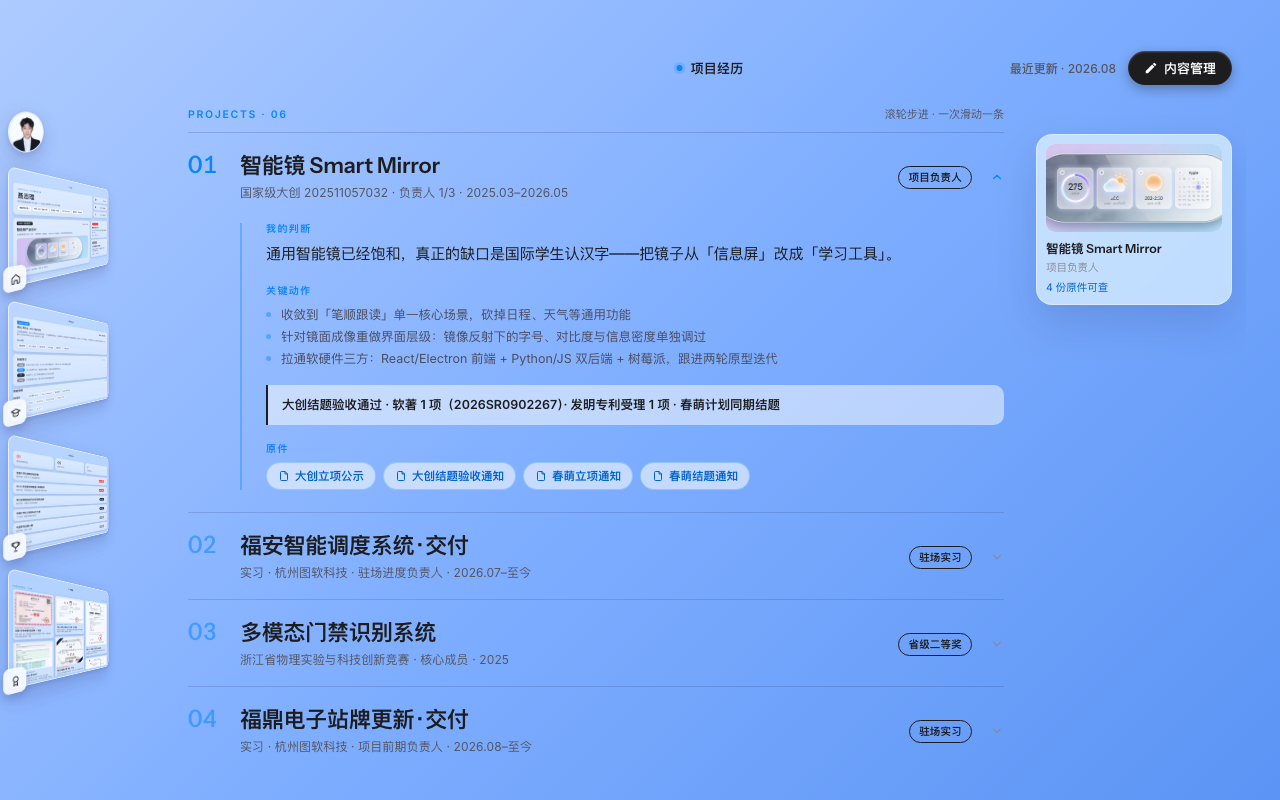
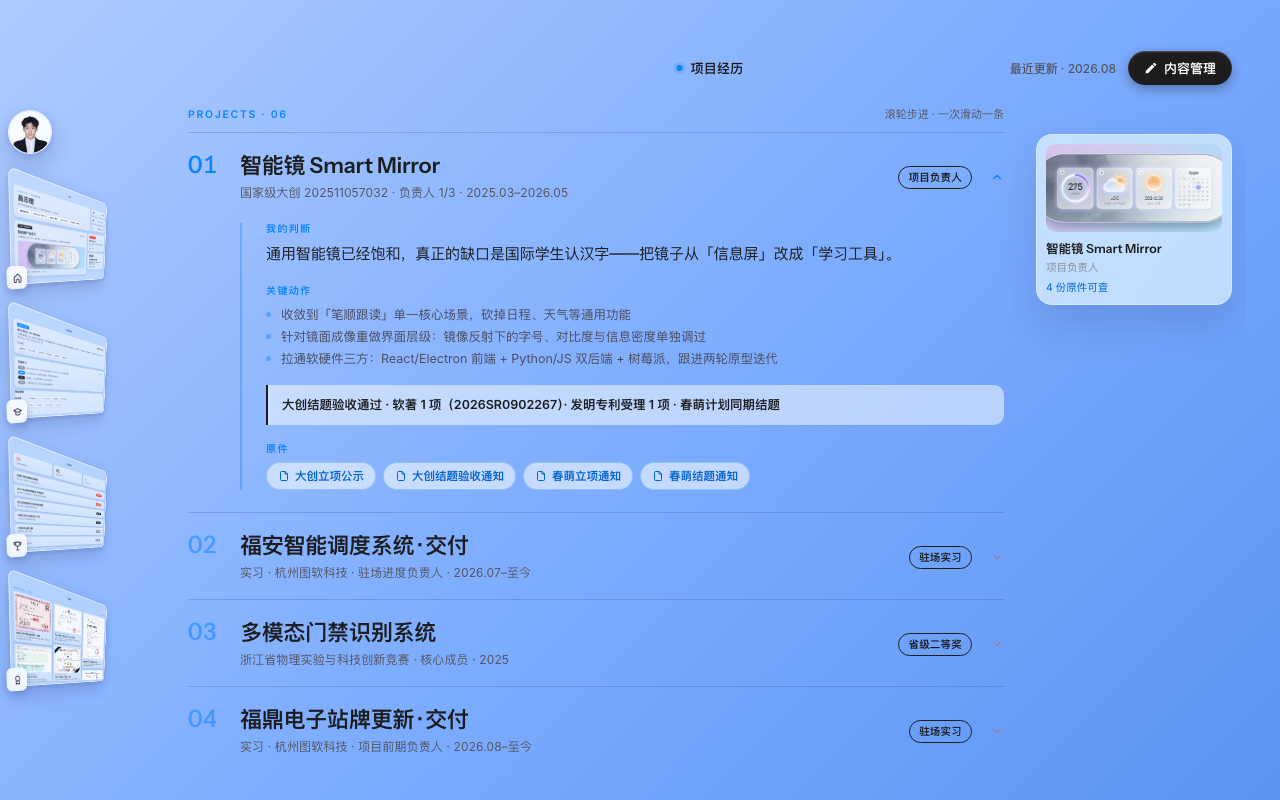
feat(strip): four-corner homography — the card is now an arbitrary quadrilateral
rotateY can only produce a symmetric trapezoid: the left and right edges stay
parallel and the top/bottom edges converge by the same amount. Stage Manager
shows the window at an angle, so the top edge drops far more than the bottom
edge lifts and the vertical edges are not parallel either — an irregular quad.

- quadMatrix(): solve the 4-point homography from the card rect to any quad and
  emit matrix3d; transform-origin is 0 0 so the four corners land exactly
- target corners (0,0) (99,38) (96,111) (3,119): top edge drops 38px, bottom
  edge lifts only 6px, both vertical edges lean 3px, right edge ~0.65 of left
- the reflow (slot) animation now repeats the matrix in its keyframes, else the
  cards get flattened into rectangles for the 260ms it runs
- measured after the change: tl(9,301) tr(107,339) br(104,412) bl(12,418)
- avatar card is not warped (stays a circle); FLIP still uses the real bbox

Changed region(s): [[0.0, 0.125, 0.0938, 0.875]]

diff --git a/src/components/StageStrip.vue b/src/components/StageStrip.vue
@@ -26,15 +26,65 @@ const emit = defineEmits(['pick'])
 const root = ref(null)
 
 // 主区实际尺寸（App.vue 里 .main-area：1280-160-16 × 800-16-16）。
-// 卡片 132×92 与它同比例（1.4348 vs 1.4375），单轴缩放不会把画面压变形。
 const STAGE_W = 1104
 const STAGE_H = 768
 const CARD_W = 175 // = --stage-card-w，改令牌时这里要同步
+const CARD_H = 122 // = --stage-card-h
 const frameStyle = {
   width: STAGE_W + 'px',
   height: STAGE_H + 'px',
   transform: `scale(${CARD_W / STAGE_W})`
 }
+
+// ---------- 不规则四边形 ----------
+// rotateY 只能做出「上下边对称收敛」的等腰梯形；真实台前调度的窗口是斜着看的，
+// 上边下压得多、下边收得少，四条边都不平行 —— 那是一个任意四边形。
+// 任意四边形用 4 点单应矩阵（matrix3d）表达：把卡片矩形映射到目标四点。
+const QUAD = {
+  w: 99,        // 视觉宽度
+  h: 119,       // 左缘高度（近边，最高）
+  topDrop: 38,  // 右上角相对左上角下压多少（上边的斜率，明显大于下边）
+  riseBtm: 6,   // 右下角相对左下角上收多少（下边的斜率，几乎持平）
+  skew: 3       // 左右两边的横向倾斜：让竖边也不平行
+}
+// 左上 / 右上 / 右下 / 左下
+const quadPoints = [
+  [0, 0],
+  [QUAD.w, QUAD.topDrop],
+  [QUAD.w - QUAD.skew, QUAD.topDrop + (QUAD.h - QUAD.topDrop - QUAD.riseBtm)],
+  [QUAD.skew, QUAD.h]
+]
+
+// 把 w×h 的矩形映射到任意四边形（四点单应），返回 matrix3d
+function quadMatrix(w, h, [p0, p1, p2, p3]) {
+  const [x0, y0] = p0, [x1, y1] = p1, [x2, y2] = p2, [x3, y3] = p3
+  const dx1 = x1 - x2, dx2 = x3 - x2, dx3 = x0 - x1 + x2 - x3
+  const dy1 = y1 - y2, dy2 = y3 - y2, dy3 = y0 - y1 + y2 - y3
+  let a, b, c, d, e, f, g, k
+  if (Math.abs(dx3) < 1e-9 && Math.abs(dy3) < 1e-9) {
+    // 仿射退化（四边形其实是平行四边形）
+    a = x1 - x0; b = x2 - x1; c = x0
+    d = y1 - y0; e = y2 - y1; f = y0
+    g = 0; k = 0
+  } else {
+    const det = dx1 * dy2 - dx2 * dy1
+    g = (dx3 * dy2 - dx2 * dy3) / det
+    k = (dx1 * dy3 - dx3 * dy1) / det
+    a = x1 - x0 + g * x1
+    b = x3 - x0 + k * x3
+    c = x0
+    d = y1 - y0 + g * y1
+    e = y3 - y0 + k * y3
+    f = y0
+  }
+  // 源坐标是 w×h，所以把单应里的小数系数按比例还原
+  const A = a / w, B = b / h, C = c
+  const D = d / w, E = e / h, F = f
+  const G = g / w, H = k / h
+  return `matrix3d(${A},${D},0,${G}, ${B},${E},0,${H}, 0,0,1,0, ${C},${F},0,1)`
+}
+
+const slotTransform = quadMatrix(CARD_W, CARD_H, quadPoints)
 
 // 缩略图里的页面只当画面，不挂键盘/滚轮监听
 provide(STAGE_PREVIEW, true)
@@ -77,8 +127,13 @@ onUpdated(() => {
     if (before == null) return
     const delta = (before - el.getBoundingClientRect().top) / k
     if (Math.abs(delta) < 1) return
+    // 关键帧必须带上卡片自己的四边形矩阵，否则补位动画期间卡片会被拍平
+    const base = el.dataset.key === 'avatar' ? '' : slotTransform
     el.animate(
-      [{ transform: `translateY(${delta}px)` }, { transform: 'translateY(0px)' }],
+      [
+        { transform: `translateY(${delta}px) ${base}`.trim() },
+        { transform: `translateY(0px) ${base}`.trim() }
+      ],
       { duration: 260, easing: 'cubic-bezier(.32,.72,0,1)' }
     )
   })
@@ -100,6 +155,7 @@ defineExpose({ root })
       class="slot"
       :class="[key === 'avatar' ? 'slot-avatar' : 'slot-win', { hidden: key === hiddenKey }]"
       :data-key="key"
+      :style="key === 'avatar' ? null : { transform: slotTransform }"
       role="button"
       tabindex="0"
       :aria-label="`打开${labelOf(key)}`"
@@ -174,8 +230,7 @@ defineExpose({ root })
   backdrop-filter: blur(10px) saturate(120%);
   -webkit-backdrop-filter: blur(10px) saturate(120%);
   box-shadow: 0 10px 26px rgba(31, 31, 89, 0.22), 0 2px 6px rgba(31, 31, 89, 0.14);
-  transform-origin: left center;
-  transform: perspective(94px) rotateY(20deg);
+  transform-origin: 0 0;
   cursor: pointer;
   opacity: 0.92;
   transition: opacity 0.18s ease, box-shadow 0.18s ease;

diff --git a/PRD.md b/PRD.md
@@ -119,8 +119,12 @@
 - **缩略图是真实页面**：每张卡内按主区原始尺寸 `1104×768` 渲染**真实页面组件**（含顶栏），再整体 `scale(0.1196)` 缩到卡片 —— 版式、玻璃层、图片位置与舞台完全一致。缩略图内 `inert` + `pointer-events:none`，并通过 `provide(STAGE_PREVIEW)` 让页面实例**跳过全局键盘/滚轮监听**（否则一次方向键会被舞台与缩略图各响应一次）。
 - **主页也占一张卡**：这是「回首页」的唯一入口。曾经把主页当"桌面"不占位，结果进入子页后无路可回（用户实测反馈）。
 - **槽位规格**：页面卡 `175×122`（175/122 = 1.4344 ≈ 主区 1104/768，FLIP 才不畸变，`design-tokens` 里注明了原因，勿改成 16:10）；头像窗 `44×44` 正圆；间距 12px；圆角 9px；条贴左缘 `left:8px`、垂直居中、无底板。
-- **梯形透视**：`perspective(94px) rotateY(20deg)`、`transform-origin: left center`。实测四角：左缘 119px、右缘 73px（约 0.61 倍），上下边各收敛 23px，视觉宽 99px —— 这才是台前调度那种「上下边朝一个灭点收拢」的梯形；早期的 22°/700px 只差 12%，看上去就是个斜放的圆角矩形。圆角必须小（9px），14px 会把梯形的两个尖角吃掉。
-  - 参数选择有取舍：`视觉宽 = r × 布局宽 × cosθ`（r 为右/左缘高度比）。想要「明显梯形」就必须接受更窄的可视宽度；反过来，**同样的 r 用小角度 + 更近的透视**（20°/94px）比大角度 + 远透视（42°/420px）更宽，所以选了前者。
+- **不规则四边形（不是等腰梯形）**：`rotateY` 只能给出「上下边对称收敛」的等腰梯形，四条边里左右两条必然平行。真实台前调度是斜着看窗口，上下边斜率不同、竖边也不平行 —— 那是一个**任意四边形**。所以卡片改用**四点单应矩阵**（`quadMatrix()` → `matrix3d`，`transform-origin: 0 0`）把 175×122 的矩形直接映射到目标四点。
+  - 目标四角（实测）：左上 `(0,0)`、右上 `(99,38)`、右下 `(96,111)`、左下 `(3,119)` —— 上边下压 38px、下边几乎持平（只上收 6px）、左右竖边各内倾 3px，右缘 76px ≈ 左缘 116px 的 0.65。
+  - 结果：四条边两两都不平行，形似一张斜着看的纸，而不是"对称的梯形框"。
+  - 槽位补位动画必须把这张矩阵一起写进关键帧（`translateY(d) matrix3d(...)`），否则动画期间卡片会被拍平成矩形。
+  - 头像卡不参与投影（保持正圆）。
+  - 副作用：卡片 bbox 只有 ~98×117，FLIP 仍按实测 bbox 起飞。
 - **材质**：`rgba(255,255,255,.38)` 白纱 + `1px rgba(255,255,255,.72)` 细边 + 双层投影，静止 `opacity:.92`（hover → 1），左下角挂 26px 页面图标（`left/bottom:-6` 凸出）。顶栏在缩略图里用 `bare` 模式（只留页名与圆点）。
 - **切换动画（卡片飞出 + 放大）**：点卡片后——① 条立即重排（被点的卡消失、旧页卡滑回槽位）；② 一个「飞行层」以**被点卡片的实测矩形**为起点，`400ms` 长到满屏（`cubic-bezier(.25,.46,.45,.94)`），采用真实页面内容，因此看起来就是卡片自己滑出来放大；③ 旧页在 `80ms` 内淡出（两层都是透明玻璃，重叠会互相穿透发糊，所以旧页必须在新窗铺开前消失）；④ 到位后同一帧内换页并移除飞行层。
 - **边框与换算**：飞行层用 `transform-origin: 0 0`（默认 center 会让落点整体偏移半个宽度）；圆角按 `14 / min(sx, sy)` 反算（元素坐标系的圆角会被缩放到视觉 14px），头像目标例外——用 `50%` 起步，否则 44px 的盒子会把圆形限制成圆角方块。

diff --git a/README.md b/README.md
@@ -25,7 +25,8 @@ npm run build    # production build into dist/
 - **Thumbnails are the real pages**, not mock bars: each card renders the actual view component at the main area's native `1104×768` and scales it down by `132/1104 ≈ 0.1196`. Thumbnails are `inert` + `pointer-events:none`, and `provide(STAGE_PREVIEW)` makes those page instances skip global keyboard/wheel listeners so one arrow key isn't handled twice.
 - Home has a card like every other page — it is the only way back to the home page (treating it as a borderless "desktop" left users stranded once they opened a sub-page).
 - Switching: the clicked card itself flies out. A "flight layer" renders the target page and animates from the card's measured rect to full stage in 400ms, while the old page fades out in 80ms (two translucent pages overlapping would bleed through each other). On landing, the route is swapped and the flight layer removed in the same frame, so it is seamless.
-- Cards are 175×122 laid out, but `perspective(94px) rotateY(20deg)` projects them to ~99×119 with the right edge at ~0.61 of the left — a real Stage-Manager trapezoid (top and bottom edges converge toward a vanishing point). A small angle with a very close perspective is wider than a big angle with a far one, at the same taper. FLIP always measures the real bounding box, and the avatar target starts at `border-radius: 50%` so the circle isn't clamped into a rounded square.
+- Cards are 175×122 in layout but mapped onto an **arbitrary quadrilateral** with a 4-point homography (`quadMatrix()` → `matrix3d`, `transform-origin: 0 0`). `rotateY` can only produce a symmetric trapezoid (left/right edges stay parallel); Stage Manager shows the window at an angle, where the top edge drops far more than the bottom edge lifts and the vertical edges are not parallel either. Target corners: `(0,0) (99,38) (96,111) (3,119)`.
+- The strip's reflow animation must repeat that matrix in its keyframes, otherwise the cards flatten into rectangles mid-animation. The avatar card is never warped (stays a circle). FLIP still measures the real bounding box, and the avatar target starts at `border-radius: 50%` so the circle isn't clamped into a rounded square.
 - Top bar's `内容管理` blue pill opens the passcode modal; passcode `051014` auto-verifies on the 6th digit; `发布更新` returns to home.
 - **Data persistence**: all CMS edits are saved to `localStorage` (key `portfolio-cms-data-v4`); `SEED_REV` in `siteData.js` 控制一次性的增量播种（新增条目合并进旧存档，不覆盖用户上传的材料） and survive refresh; every view reads live from the store; `发布更新` stamps the `最近更新` date in the top bar; 恢复默认 resets to the `content.js` defaults.
 
@@ -39,7 +40,7 @@ src/
   store/siteData.js           # 响应式数据仓库 + localStorage 持久化（v4）+ SEED_REV 增量播种
   lib/stageContext.js         # STAGE_PREVIEW：缩略图内的页面实例跳过全局输入监听
   components/
-    StageStrip.vue            # 台前调度窗口条：44px 头像窗 + 175×122 页面卡（透视后 ~99px）；卡内渲染真实页面并整体缩放（固定顺序、梯形透视、左下角图标）
+    StageStrip.vue            # 台前调度窗口条：44px 头像窗 + 175×122 页面卡（四点单应映射成不规则四边形）；卡内渲染真实页面并整体缩放（固定顺序、左下角图标）
     TopBar.vue                # 顶栏：当前页标题、最近更新时间、内容管理入口（bare 模式供缩略图复用）
     PasscodeModal.vue         # 密码锁屏（420px）：6 位密码自动校验
     CMSWindow.vue             # 内容管理后台（1100×680）：schema 驱动编辑器 + 实时预览
